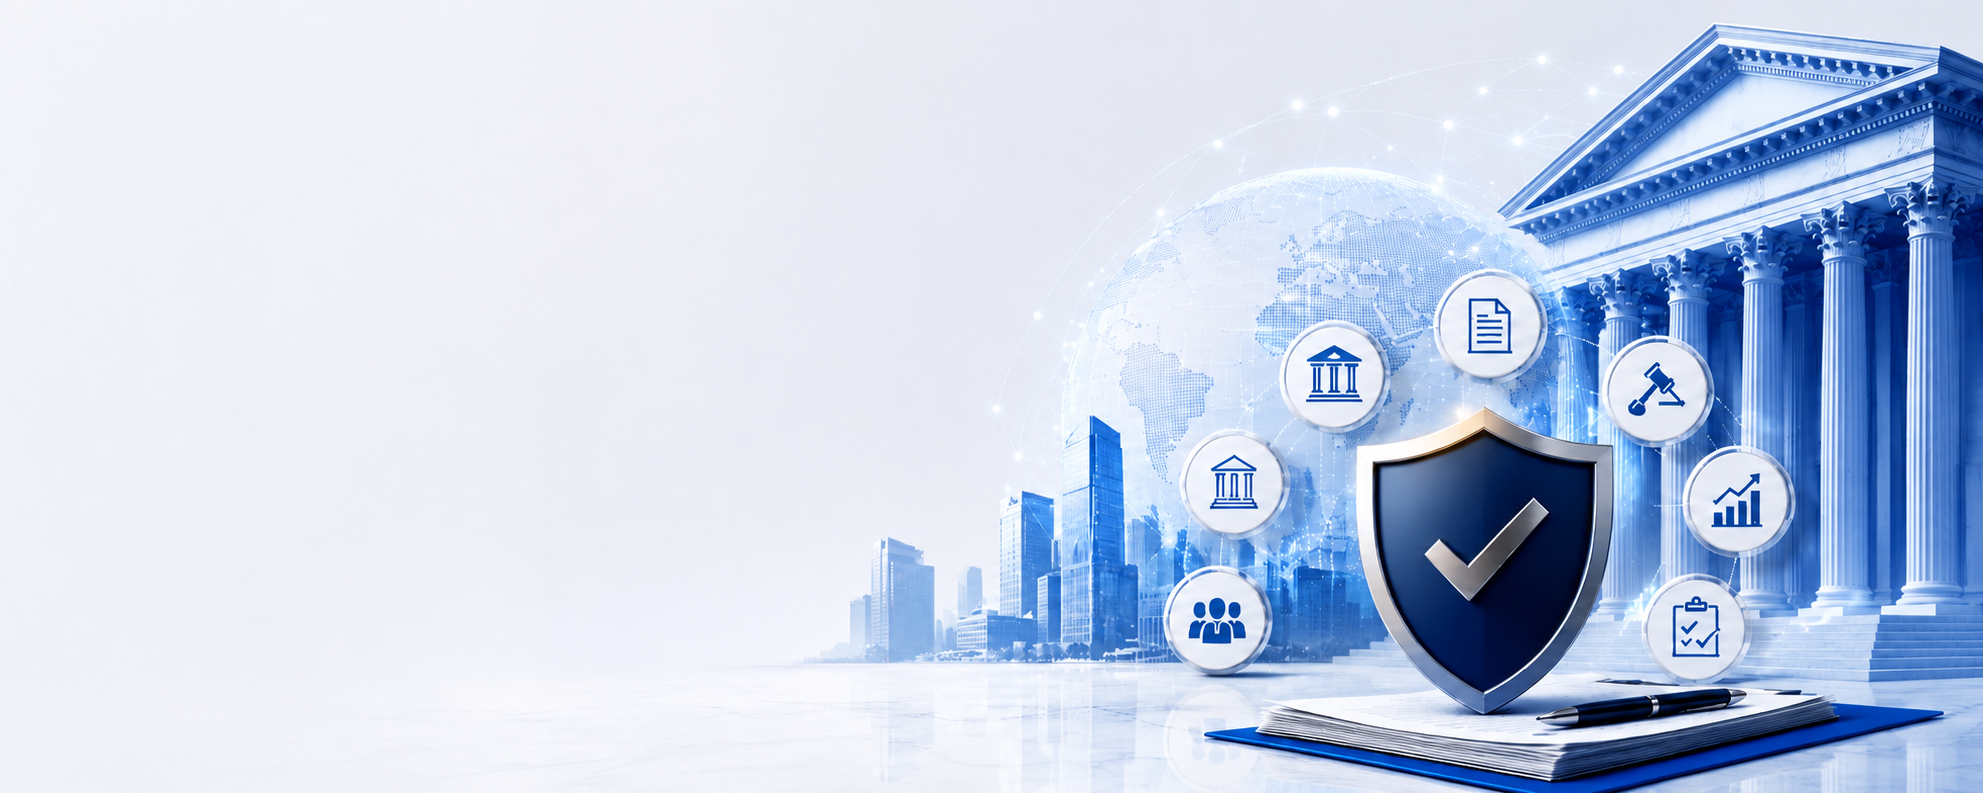
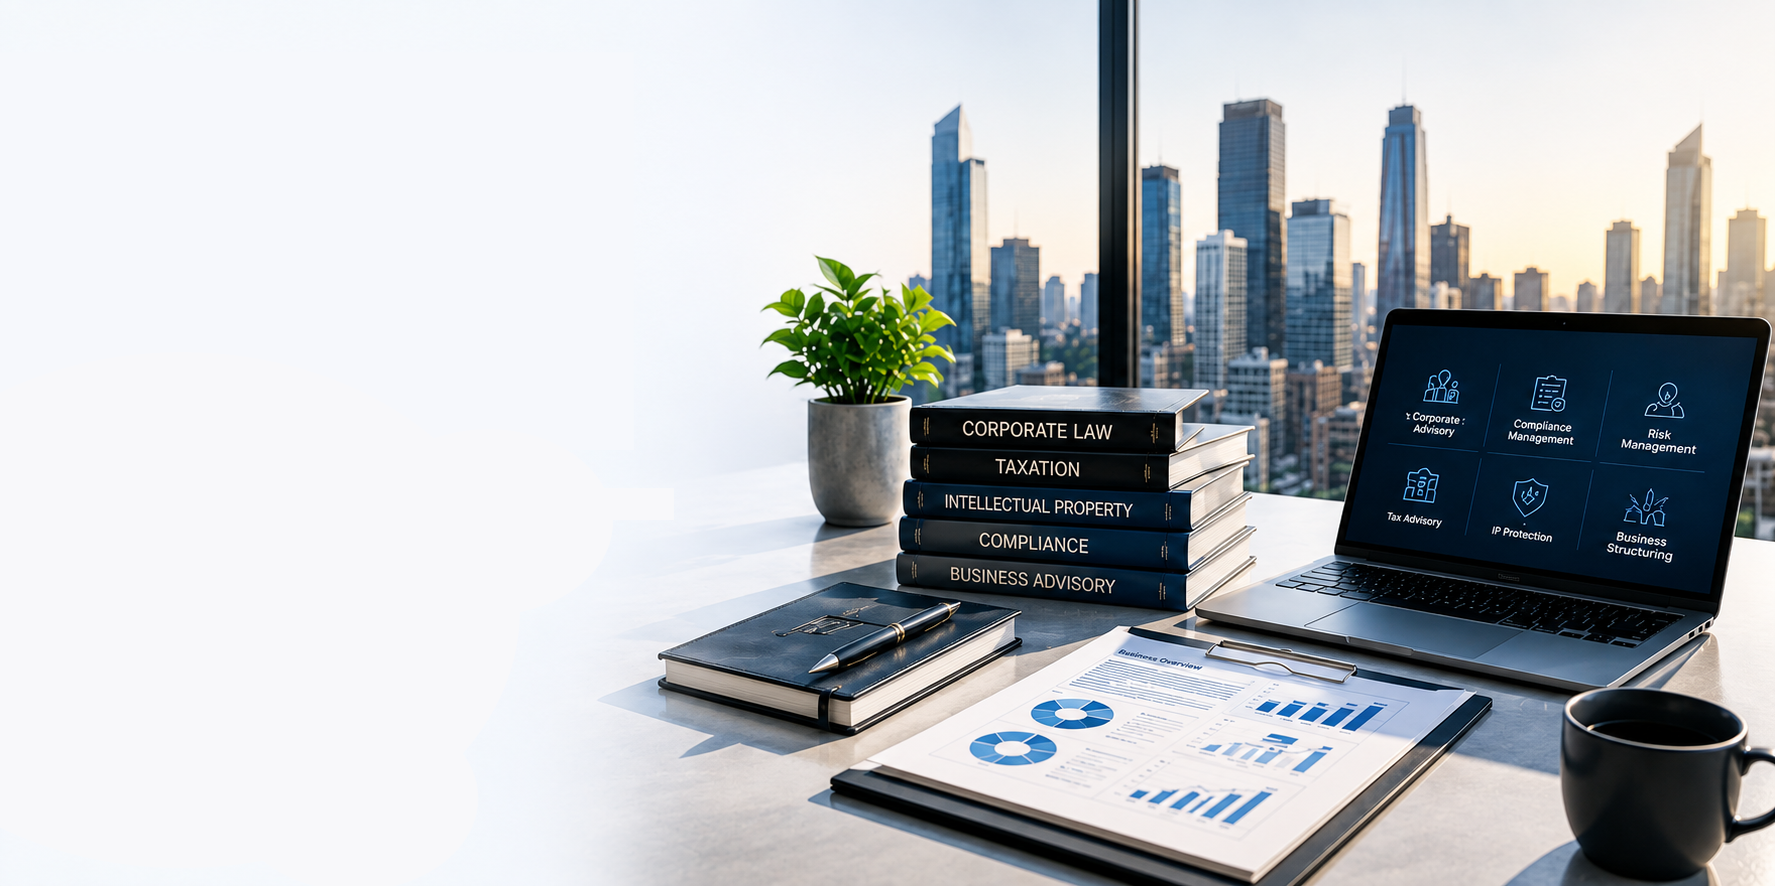
lexmart update

diff --git a/index.html b/index.html
@@ -11,7 +11,7 @@
   <link
     href="https://fonts.googleapis.com/css2?family=Poppins:wght@500;600;700;800&family=Inter:wght@400;500;600;700&display=swap"
     rel="stylesheet">
-  <link rel="stylesheet" href="style.css?v=20260903.2">
+  <link rel="stylesheet" href="style.css?v=20260903.3">
   <style>
     /* -- Moving Blue Gradient Animation -- */
     @keyframes moveGradient {
@@ -234,7 +234,7 @@
   </svg>
 
   <div id="site-header"></div>
-  <script src="header.js?v=20260903.2" defer></script>
+  <script src="header.js?v=20260903.3" defer></script>
 
   <section class="hero">
     <div class="hero-grid">
@@ -955,6 +955,10 @@
     <div class="marquee-wrapper" style="margin-bottom:16px;">
       <div class="marquee-track row1">
         <!-- Set 1 -->
+         <div class="client-card">
+          <img src="lexmart_clients/main-logo.png" alt="Client Logo"
+            style="max-height:60px;max-width:130px;width:auto;height:auto;object-fit:contain;display:block;margin:0 auto;">
+        </div>
         <div class="client-card">
           <img src="lexmart_clients/vectorwings.png" alt="Client Logo"
             style="max-height:60px;max-width:130px;width:auto;height:auto;object-fit:contain;display:block;margin:0 auto;">
@@ -1016,6 +1020,10 @@
             style="max-height:60px;max-width:130px;width:auto;height:auto;object-fit:contain;display:block;margin:0 auto;">
         </div>
         <!-- Set 2 (duplicate for seamless loop) -->
+         <div class="client-card">
+          <img src="lexmart_clients/main-logo.png" alt="Client Logo"
+            style="max-height:60px;max-width:130px;width:auto;height:auto;object-fit:contain;display:block;margin:0 auto;">
+        </div>
          <div class="client-card">
           <img src="lexmart_clients/vectorwings.png" alt="Client Logo"
             style="max-height:60px;max-width:130px;width:auto;height:auto;object-fit:contain;display:block;margin:0 auto;">
@@ -1083,6 +1091,10 @@
     <div class="marquee-wrapper">
       <div class="marquee-track row2">
         <!-- Set 1 -->
+        <div class="client-card">
+          <img src="lexmart_clients/main-logo.png" alt="Client Logo"
+            style="max-height:60px;max-width:130px;width:auto;height:auto;object-fit:contain;display:block;margin:0 auto;">
+        </div>
          <div class="client-card">
           <img src="lexmart_clients/vectorwings.png" alt="Client Logo"
             style="max-height:60px;max-width:130px;width:auto;height:auto;object-fit:contain;display:block;margin:0 auto;">
@@ -1144,6 +1156,10 @@
             style="max-height:60px;max-width:130px;width:auto;height:auto;object-fit:contain;display:block;margin:0 auto;">
         </div>
         <!-- Set 2 (duplicate for seamless loop) -->
+         <div class="client-card">
+          <img src="lexmart_clients/main-logo.png" alt="Client Logo"
+            style="max-height:60px;max-width:130px;width:auto;height:auto;object-fit:contain;display:block;margin:0 auto;">
+        </div>
          <div class="client-card">
           <img src="lexmart_clients/vectorwings.png" alt="Client Logo"
             style="max-height:60px;max-width:130px;width:auto;height:auto;object-fit:contain;display:block;margin:0 auto;">

diff --git a/service-intellectual-property.html b/service-intellectual-property.html
@@ -9,7 +9,7 @@
 <meta name="description" content="Expert Intellectual Property services including Trademark Registration, Copyright, and Patent filing by Lexmart.">
 <link rel="preconnect" href="https://fonts.googleapis.com">
 <link href="https://fonts.googleapis.com/css2?family=Poppins:wght@500;600;700;800&family=Inter:wght@400;500;600;700&display=swap" rel="stylesheet">
-<link rel="stylesheet" href="style.css?v=20260903.2">
+<link rel="stylesheet" href="style.css?v=20260903.3">
 <style>
   /* -- Lexmart Logo Blue Color Palette (Glossy) -- */
   /* Primary: #0C46BB | Dark: #062d80 | Mid: #1f5cd4 | Gloss: #7ab3ff | Tint: #d6e4ff / #eef4ff */
@@ -136,7 +136,7 @@
 </svg>
 
 <div id="site-header"></div>
-<script src="header.js?v=20260903.2" defer></script>
+<script src="header.js?v=20260903.3" defer></script>
 
 <section class="sp-hero">
   <div class="container sp-hero-inner">

diff --git a/service-business-compliance.html b/service-business-compliance.html
@@ -9,7 +9,7 @@
 <meta name="description" content="Comprehensive Business Compliance services including FEMA, RBI, MSME, FSSAI, ISO, and Licenses by Lexmart.">
 <link rel="preconnect" href="https://fonts.googleapis.com">
 <link href="https://fonts.googleapis.com/css2?family=Poppins:wght@500;600;700;800&family=Inter:wght@400;500;600;700&display=swap" rel="stylesheet">
-<link rel="stylesheet" href="style.css?v=20260903.2">
+<link rel="stylesheet" href="style.css?v=20260903.3">
 <style>
   /* -- Lexmart Logo Blue Color Palette (Glossy) -- */
   /* Primary: #0C46BB | Dark: #062d80 | Mid: #1f5cd4 | Gloss: #7ab3ff | Tint: #d6e4ff / #eef4ff */
@@ -137,7 +137,7 @@
 </svg>
 
 <div id="site-header"></div>
-<script src="header.js?v=20260903.2" defer></script>
+<script src="header.js?v=20260903.3" defer></script>
 
 <section class="sp-hero">
   <div class="container sp-hero-inner">

diff --git a/service-taxation.html b/service-taxation.html
@@ -9,7 +9,7 @@
 <meta name="description" content="Expert Taxation services including GST, Income Tax, TDS compliance, and Tax Planning by Lexmart.">
 <link rel="preconnect" href="https://fonts.googleapis.com">
 <link href="https://fonts.googleapis.com/css2?family=Poppins:wght@500;600;700;800&family=Inter:wght@400;500;600;700&display=swap" rel="stylesheet">
-<link rel="stylesheet" href="style.css?v=20260903.2">
+<link rel="stylesheet" href="style.css?v=20260903.3">
 <style>
   /* -- Lexmart Logo Blue Color Palette (Glossy) -- */
   /* Primary: #0C46BB | Dark: #062d80 | Mid: #1f5cd4 | Gloss: #7ab3ff | Tint: #d6e4ff / #eef4ff */
@@ -144,7 +144,7 @@
 </svg>
 
 <div id="site-header"></div>
-<script src="header.js?v=20260903.2" defer></script>
+<script src="header.js?v=20260903.3" defer></script>
 
 <section class="sp-hero">
   <div class="container sp-hero-inner">

diff --git a/service-advisory.html b/service-advisory.html
@@ -9,7 +9,7 @@
 <meta name="description" content="Expert Advisory and Startup Advisory services including Business Strategy, Fundraising Advisory, Due Diligence, and Startup Support by Lexmart.">
 <link rel="preconnect" href="https://fonts.googleapis.com">
 <link href="https://fonts.googleapis.com/css2?family=Poppins:wght@500;600;700;800&family=Inter:wght@400;500;600;700&display=swap" rel="stylesheet">
-<link rel="stylesheet" href="style.css?v=20260903.2">
+<link rel="stylesheet" href="style.css?v=20260903.3">
 <style>
   .sp-hero {
     background: linear-gradient(135deg, #062d80 0%, #0C46BB 55%, #1f5cd4 100%);
@@ -148,7 +148,7 @@
 </svg>
 
 <div id="site-header"></div>
-<script src="header.js?v=20260903.2" defer></script>
+<script src="header.js?v=20260903.3" defer></script>
 
 <section class="sp-hero">
   <div class="container sp-hero-inner">

diff --git a/team.html b/team.html
@@ -9,7 +9,7 @@
 <meta name="description" content="Meet the professionals and strategic thinkers behind Lexmart's trusted corporate advisory services.">
 <link rel="preconnect" href="https://fonts.googleapis.com">
 <link href="https://fonts.googleapis.com/css2?family=Poppins:wght@500;600;700;800&family=Inter:wght@400;500;600;700&display=swap" rel="stylesheet">
-<link rel="stylesheet" href="style.css?v=20260903.2">
+<link rel="stylesheet" href="style.css?v=20260903.3">
 <style>
   /* ── About-page-specific styles ── */
 
@@ -630,7 +630,7 @@
 
 <!-- Header -->
 <div id="site-header"></div>
-<script src="header.js?v=20260903.2" defer></script>
+<script src="header.js?v=20260903.3" defer></script>
 
 <!-- -- HERO -- -->
 <section class="about-hero animate-fade-in delay-100" style="min-height: 280px;">

diff --git a/service-corporate-law.html b/service-corporate-law.html
@@ -9,7 +9,7 @@
 <meta name="description" content="Comprehensive Corporate Law services including Company Registration, ROC Compliance, Secretarial Services, and NCLT matters by Lexmart.">
 <link rel="preconnect" href="https://fonts.googleapis.com">
 <link href="https://fonts.googleapis.com/css2?family=Poppins:wght@500;600;700;800&family=Inter:wght@400;500;600;700&display=swap" rel="stylesheet">
-<link rel="stylesheet" href="style.css?v=20260903.2">
+<link rel="stylesheet" href="style.css?v=20260903.3">
 <style>
   /* -- Service Page Hero -- */
   .sp-hero {
@@ -255,7 +255,7 @@
 
 <!-- Header -->
 <div id="site-header"></div>
-<script src="header.js?v=20260903.2" defer></script>
+<script src="header.js?v=20260903.3" defer></script>
 
 <!-- Hero -->
 <section class="sp-hero">

diff --git a/terms-conditions.html b/terms-conditions.html
@@ -9,7 +9,7 @@
   <link rel="preconnect" href="https://fonts.googleapis.com">
   <link rel="preconnect" href="https://fonts.gstatic.com" crossorigin>
   <link href="https://fonts.googleapis.com/css2?family=Poppins:wght@500;600;700;800&family=Inter:wght@400;500;600;700&display=swap" rel="stylesheet">
-  <link rel="stylesheet" href="style.css?v=20260903.2">
+  <link rel="stylesheet" href="style.css?v=20260903.3">
 </head>
 <body>
 <svg width="0" height="0" style="position:absolute">
@@ -123,7 +123,7 @@
 
 
   <div id="site-header"></div>
-<script src="header.js?v=20260903.2" defer></script>
+<script src="header.js?v=20260903.3" defer></script>
 
   <section class="hero" style="min-height:200px; padding-top:150px; background:#f8f9fa;">
     <div class="container">

diff --git a/blog-detail.html b/blog-detail.html
@@ -13,7 +13,7 @@
   <link
     href="https://fonts.googleapis.com/css2?family=Poppins:wght@500;600;700;800&family=Inter:wght@400;500;600;700;800&display=swap"
     rel="stylesheet">
-  <link rel="stylesheet" href="style.css?v=20260903.2">
+  <link rel="stylesheet" href="style.css?v=20260903.3">
   <style>
     .bd-hero {
       background: var(--blue-900);
@@ -345,7 +345,7 @@
   </svg>
 
   <div id="site-header"></div>
-<script src="header.js?v=20260903.2" defer></script>
+<script src="header.js?v=20260903.3" defer></script>
 
   <section class="bd-hero animate-fade-in" id="blogHero">
     <div class="container bd-hero-inner">

diff --git a/contact.html b/contact.html
@@ -12,7 +12,7 @@
   <link
     href="https://fonts.googleapis.com/css2?family=Poppins:wght@500;600;700;800&family=Inter:wght@400;500;600;700&display=swap"
     rel="stylesheet">
-  <link rel="stylesheet" href="style.css?v=20260903.2">
+  <link rel="stylesheet" href="style.css?v=20260903.3">
   <style>
     .contact-hero {
       background: var(--blue-900);
@@ -209,7 +209,7 @@
   </svg>
 
   <div id="site-header"></div>
-<script src="header.js?v=20260903.2" defer></script>
+<script src="header.js?v=20260903.3" defer></script>
 
   <section class="contact-hero animate-fade-in">
     <div class="container contact-hero-inner">

diff --git a/about.html b/about.html
@@ -13,7 +13,7 @@
   <link
     href="https://fonts.googleapis.com/css2?family=Poppins:wght@500;600;700;800&family=Inter:wght@400;500;600;700&display=swap"
     rel="stylesheet">
-  <link rel="stylesheet" href="style.css?v=20260903.2">
+  <link rel="stylesheet" href="style.css?v=20260903.3">
   <style>
     /* ── About-page-specific styles ── */
 
@@ -945,7 +945,7 @@
 
   <!-- Header -->
   <div id="site-header"></div>
-<script src="header.js?v=20260903.2" defer></script>
+<script src="header.js?v=20260903.3" defer></script>
 
   <!-- ── HERO ── -->
   <section class="about-hero animate-fade-in delay-100">

diff --git a/blog-detail-2.html b/blog-detail-2.html
@@ -13,7 +13,7 @@
   <link
     href="https://fonts.googleapis.com/css2?family=Poppins:wght@500;600;700;800&family=Inter:wght@400;500;600;700;800&display=swap"
     rel="stylesheet">
-  <link rel="stylesheet" href="style.css?v=20260903.2">
+  <link rel="stylesheet" href="style.css?v=20260903.3">
   <style>
     .bd-hero {
       background: var(--blue-900);
@@ -346,7 +346,7 @@
   </svg>
 
   <div id="site-header"></div>
-<script src="header.js?v=20260903.2" defer></script>
+<script src="header.js?v=20260903.3" defer></script>
 
   <section class="bd-hero animate-fade-in">
     <div class="container bd-hero-inner">
